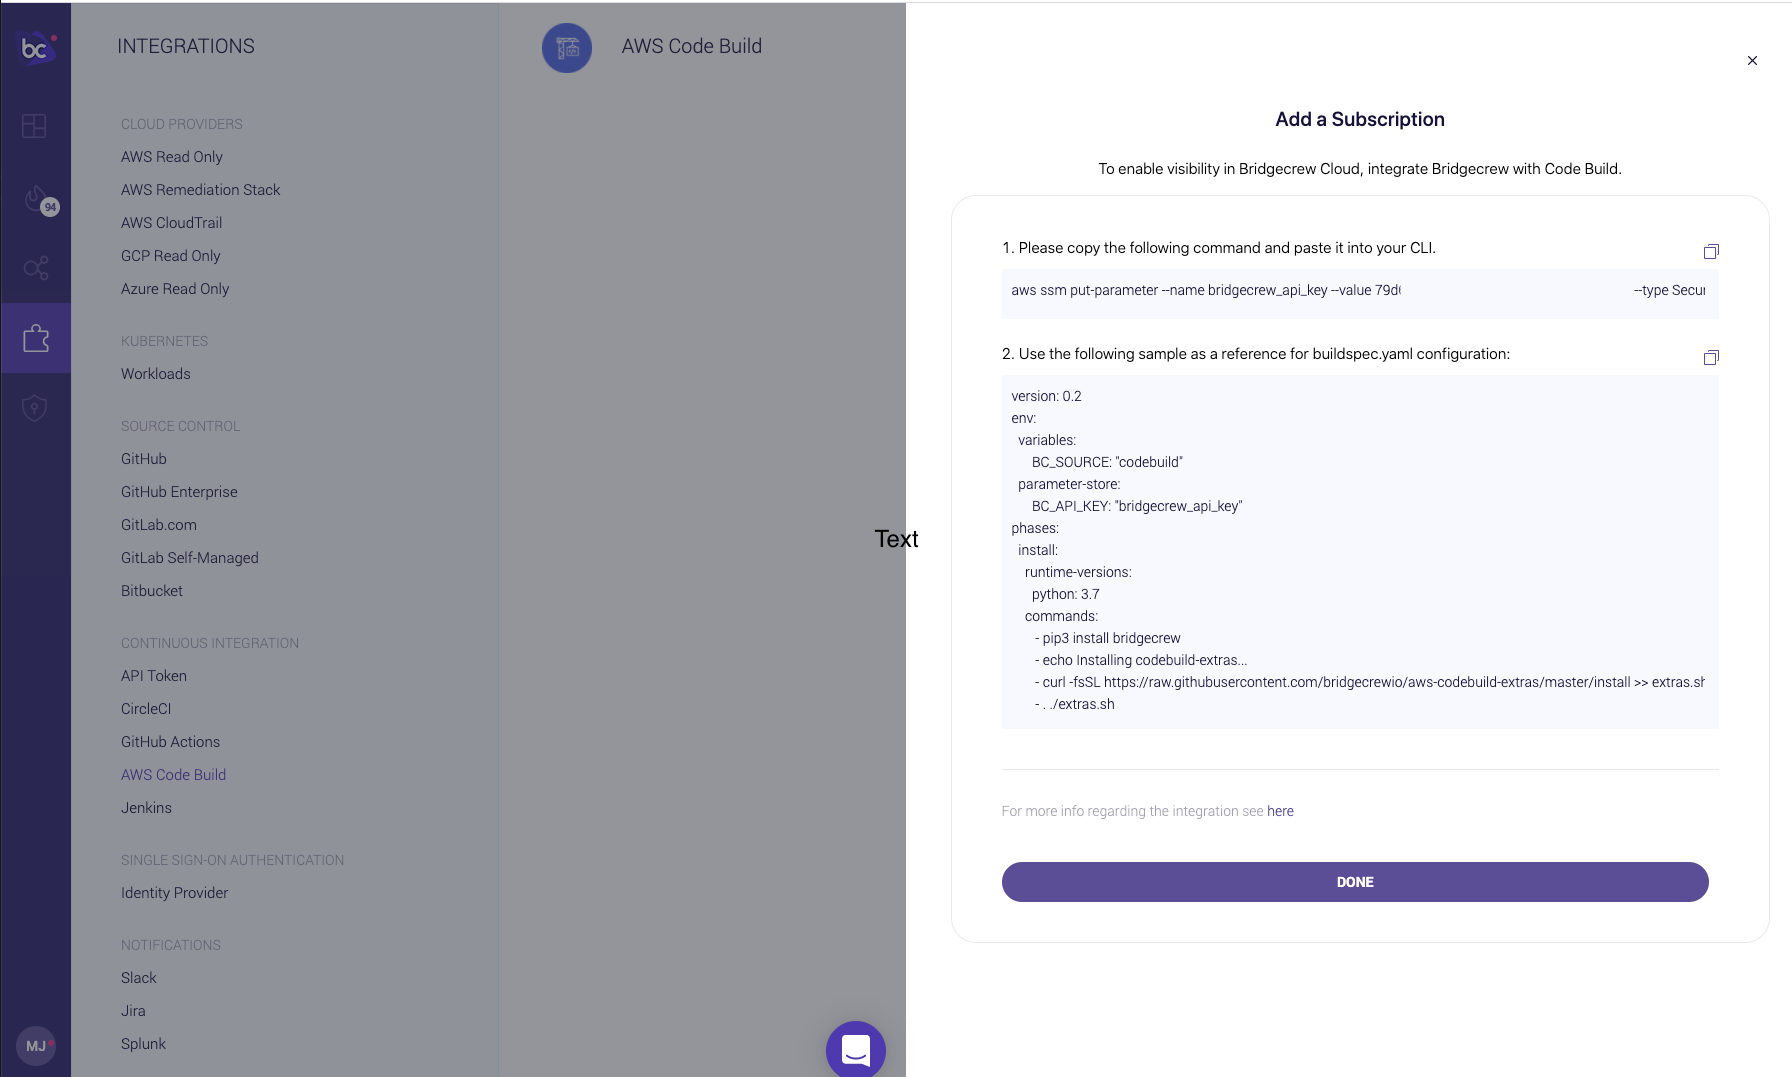
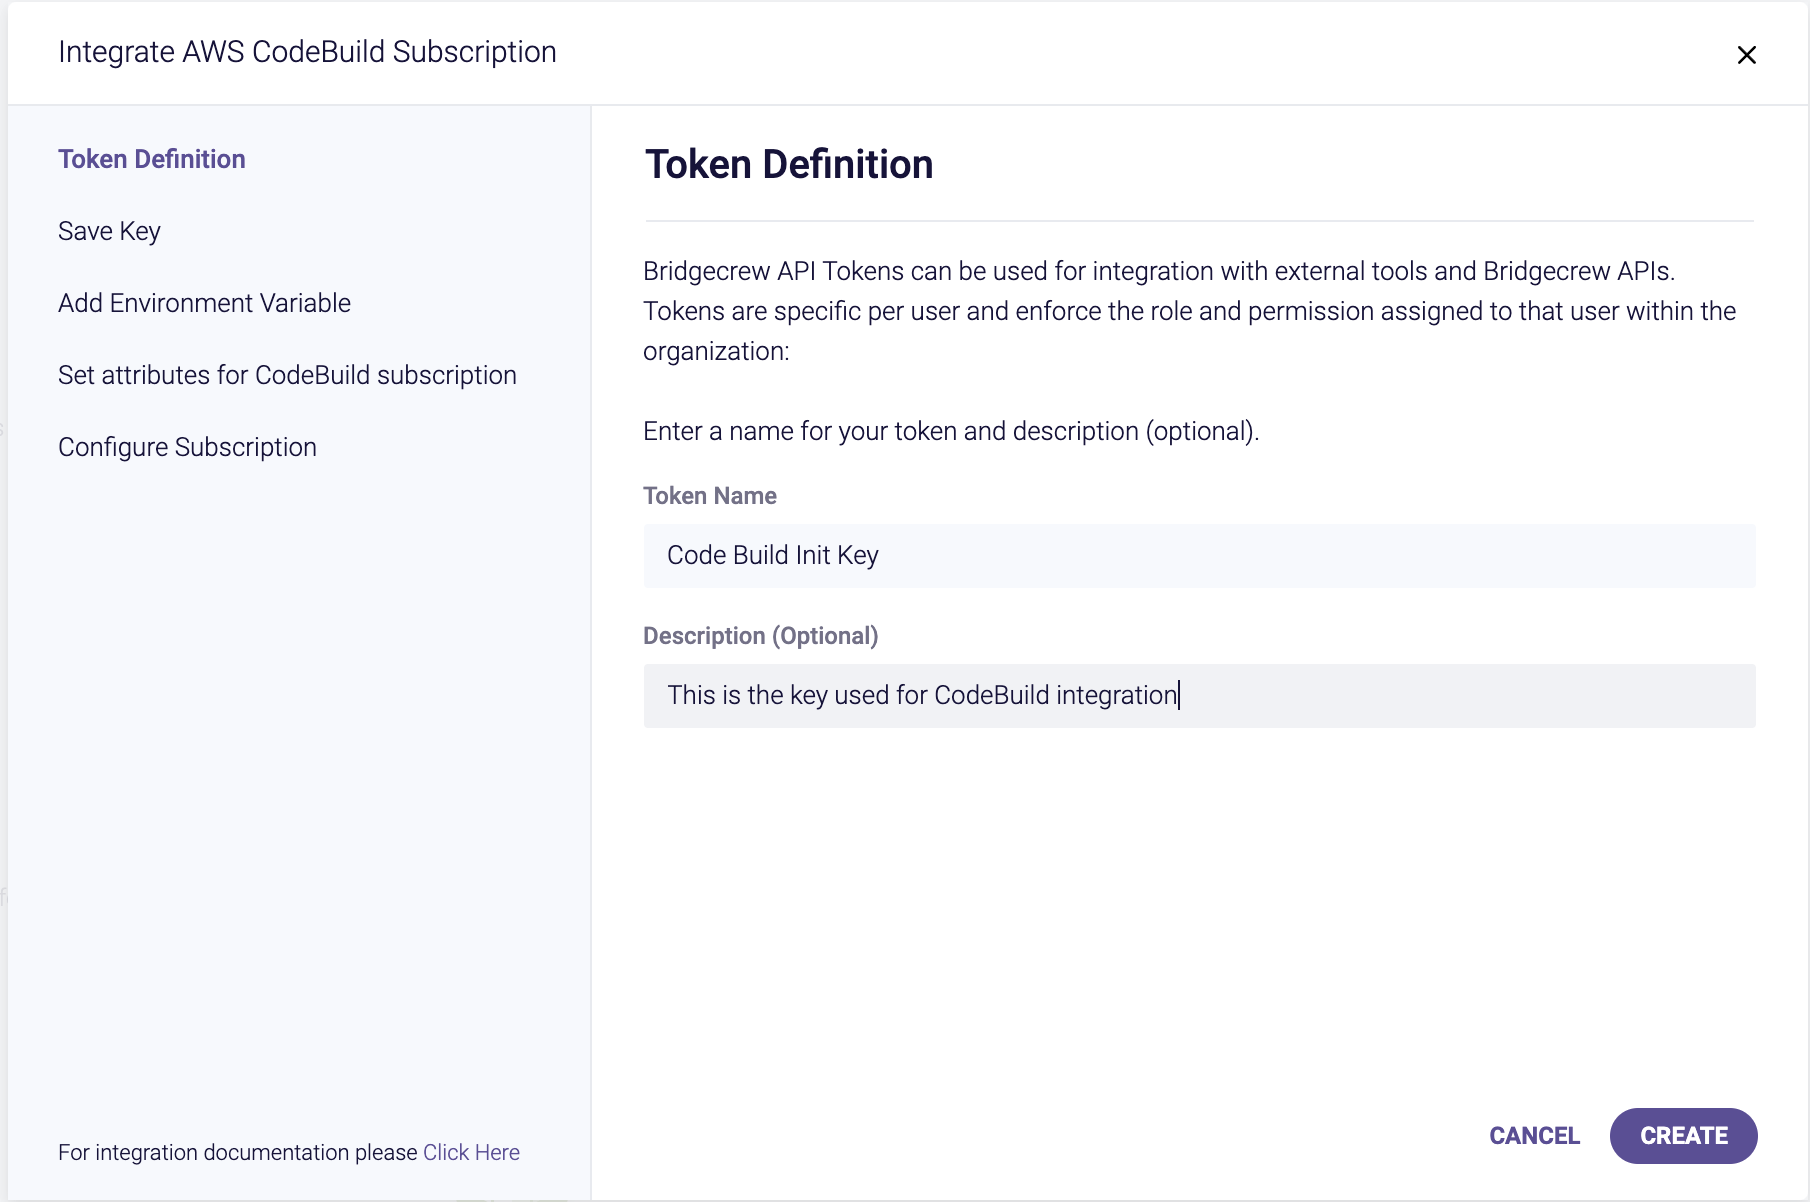
Updated to new CodeBuild integrations flow

diff --git a/content/cloudformation/20_module_two/2002_automating_iac_codebuild.md b/content/cloudformation/20_module_two/2002_automating_iac_codebuild.md
@@ -12,19 +12,39 @@ AWS CodeBuild paired with AWS CodePipeline is a CI/CD platform that can build pr
 
 We’ll also automatically send the results to Brigecrew to maintain a view across all of our infrastructure projects and share visibility throughout our organization.
 
-First, tell the Bridgecrew dashboard you’re going to integrate AWS CodeBuild. To do this, open the integrations menu in your Bridgecrew account and select AWS CodeBuild, then **Add Subscription**.
+First, tell the Bridgecrew dashboard you’re going to integrate AWS CodeBuild. To do this, open the integrations menu in your Bridgecrew account, select the `ADD INTEGRATION` button to open the integrations calalog.
+
+![Bridgecrew Integrations Catalog](./images/bridgecrew-dash-integrations-catalog.png "Bridgecrew Integrations Catalog")
+
+Select AWS CodeBuild from the catalog, to be guided through the integration setup:
 
 ![Bridgecrew CodeBuild Integration](./images/bridgecrew-dash-add-codebuild.png "Bridgecrew CodeBuild Integration")
 
-Run the command provided by Bridgecrew with your local aws CLI. This will save the Bridgecrew API key into your AWS System Manager’s parameter store so we can access it from our CodeBuild jobs later.
+You will be prompted to create a new Bridgecrew API key, this allows codebuild to talk to the Bridgecrew platform, name the key `Code Build Init Key` and click next, you will then be presented with the new API key, we need to save this for later. Create a new text file and save it.
 
-Next, copy the `buildspec.yaml` configuration to keep handy (or keep this Bridgecrew tab open).
+![Bridgecrew CodeBuild Integration](./images/bridgecrew-dash-codebuild-api-key-integration.png "Bridgecrew CodeBuild Integration")
+
+The next page provides a command to automatically add the API key to our AWS environment.
+
+Run the command provided with your local aws CLI. This will save the Bridgecrew API key into your AWS System Manager’s parameter store so we can access it from our CodeBuild jobs later.
 
 {{% notice info %}}
 <p style='text-align: left;'>
 If the aws command fails, your IAM user may not have the correct permissions to create parameters in AWS Systems Manager (SSM). In that case, you’ll need to add write permissions to the user.
 </p>
 {{% /notice %}}
+
+Finally, we tell Bridgecrew about our CodeBuild environment, what git repository, branch, etc it's going to be responsible for running. This allows us to easily find the information reported back into Bridgecrew from CodeBuild.
+
+![Bridgecrew CodeBuild Integration](./images/bridgecrew-dash-integrate-codebuild-attributes.png "Bridgecrew CodeBuild Integration")
+
+We will be setting up codebuild on our fork of `CFNGoat`, so the `Repository Owner` will be your github user, `Repository Name` will be `cfngoat` and lets use the `master` branch by default.
+
+
+Next, copy the `buildspec.yaml` configuration to keep handy for configuring our CodeBuild pipeline.
+
+
+![Bridgecrew CodeBuild Integration](./images/bridgecrew-dash-codebuild-integration-save.png "Bridgecrew CodeBuild Integration")
 
 ### New Codebuild Project
 
